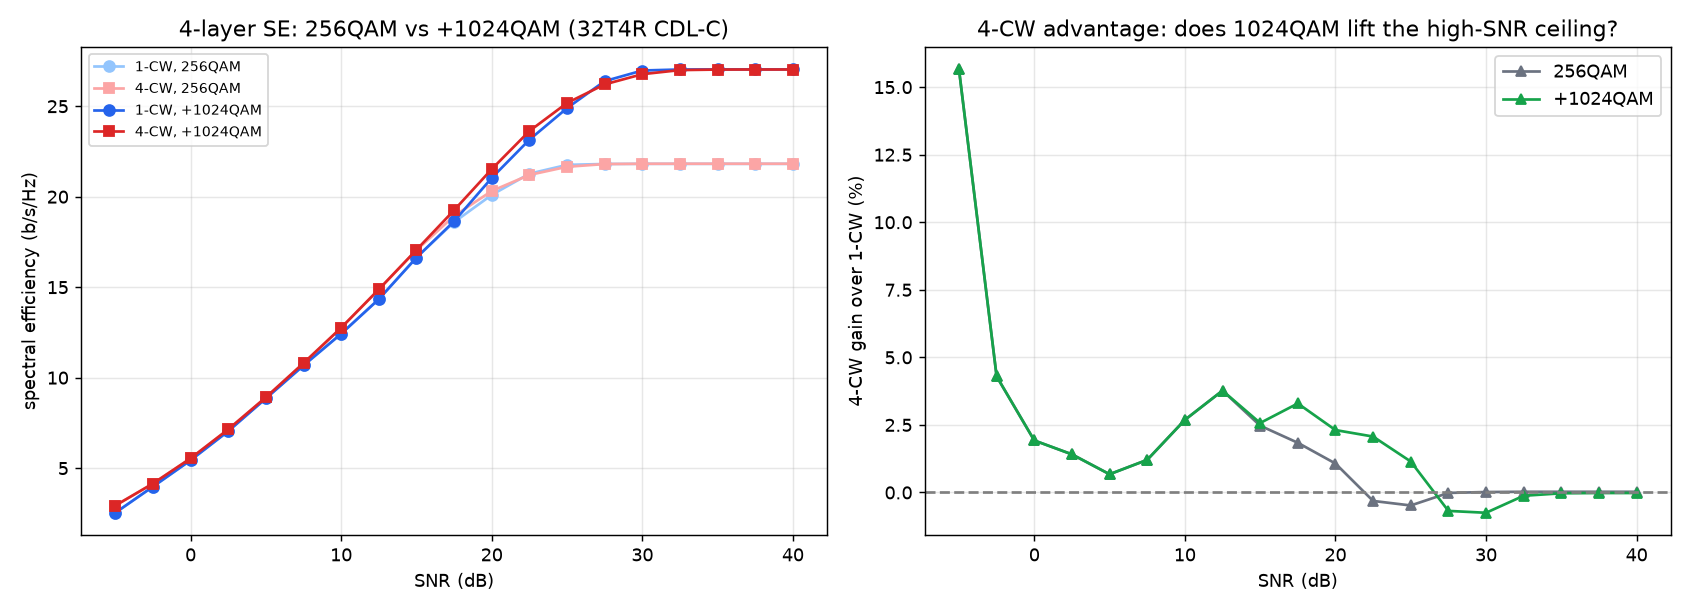
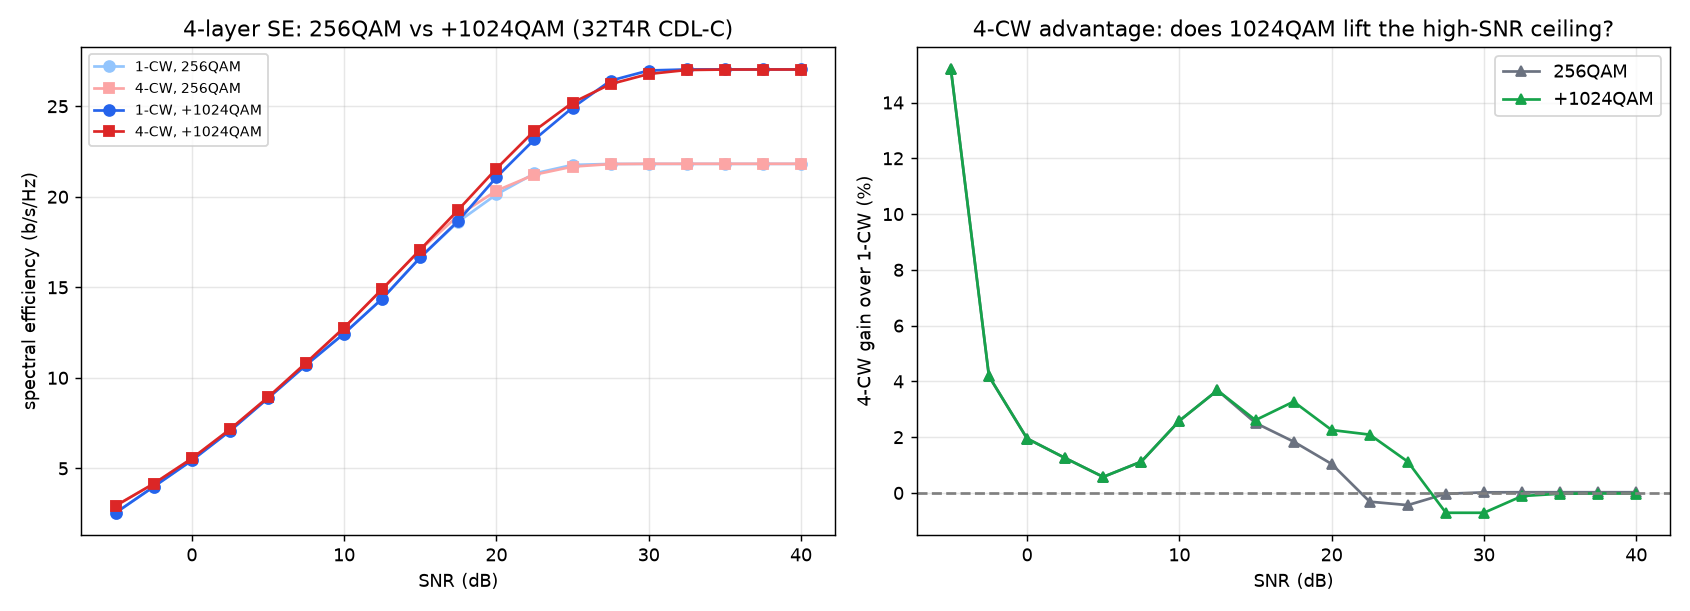
Correct CDL-B/C/D/E angle tables to TR 38.901
23 cluster rows had wrong AOD/AOA/ZOD/ZOA values (CDL-B 12, CDL-C 6,
CDL-D 1, CDL-E 4); delays, powers, spreads, XPR and LOS were already
correct. Values now match the TR 38.901 tables shipped with Sionna
(identical in its Rel-16.1 and Rel-19.2 copies).

- tests/test_cdl_pdp.py: the reference check now covers every table
  column (angles, per-cluster spreads, XPR, LOS angles), not just the
  PDP; it fails on the old tables.
- Regenerate results/codeword_mapping_study.png and
  results/codeword_mapping_ut.png; the remaining CDL-dependent figures
  follow in the next commit.

Claude-Session: https://claude.ai/code/session_01QWMA1G15JsNym7MEDMSeZY

diff --git a/nrdlsim/channel_models.py b/nrdlsim/channel_models.py
@@ -227,10 +227,10 @@ _CDL = {
             [0.1072,  -2.2,   9.3, -173.3, 105.8,  78.9],
             [0.2155,  -4.0,   9.3, -173.3, 105.8,  78.9],
             [0.2095,  -3.2, -34.1,  125.5, 115.3,  63.3],
-            [0.2870,  -9.8, -65.4,  -88.0, 119.0,  59.9],
-            [0.2986,  -1.2, -11.4,  155.1, 103.7,  67.5],
-            [0.3752,  -3.4, -11.4,  155.1, 103.7,  67.5],
-            [0.5055,  -5.2, -11.4,  155.1, 103.7,  67.5],
+            [0.2870,   -9.8,   -65.4,   -88.0,   119.3,    59.9],
+            [0.2986,   -1.2,   -11.4,   155.1,   103.2,    67.5],
+            [0.3752,   -3.4,   -11.4,   155.1,   103.2,    67.5],
+            [0.5055,   -5.2,   -11.4,   155.1,   103.2,    67.5],
             [0.3681,  -7.6, -67.2,  -89.8, 118.2,  82.6],
             [0.3697,  -3.0,  52.5,  132.1, 102.0,  66.3],
             [0.5700,  -8.9, -72.0,  -83.6, 100.4,  61.6],
@@ -238,14 +238,14 @@ _CDL = {
             [1.1021,  -4.8, -52.2,  103.7, 103.4,  78.2],
             [1.2756,  -5.7, -50.5,  -87.8, 102.5,  82.0],
             [1.5474,  -7.5,  61.4,  -92.5, 101.4,  62.4],
-            [1.7842,  -1.9,  30.6, -139.1, 103.0,  62.5],
-            [2.0169,  -7.6, -72.5,  -90.6, 100.0,  71.6],
-            [2.8294, -12.2, -90.6,   58.6, 115.2,  55.8],
-            [3.0219,  -9.8, -77.6,  -79.0, 100.5,  60.1],
-            [3.6187, -11.4, -82.6,   65.8, 119.6,  60.6],
-            [4.1067, -14.9, -103.6,  52.7, 118.5,  60.0],
-            [4.2790,  -9.2,  75.6,   88.7, 102.5,  61.3],
-            [4.7834, -11.3, -77.6,  -60.4, 101.8,  70.5],
+            [1.7842,   -1.9,    30.6,  -139.1,   103.0,    78.0],
+            [2.0169,   -7.6,   -72.5,   -90.6,   100.0,    60.9],
+            [2.8294,  -12.2,   -90.6,    58.6,   115.2,    82.9],
+            [3.0219,   -9.8,   -77.6,   -79.0,   100.5,    60.8],
+            [3.6187,  -11.4,   -82.6,    65.8,   119.6,    57.3],
+            [4.1067,  -14.9,  -103.6,    52.7,   118.7,    59.9],
+            [4.2790,   -9.2,    75.6,    88.7,   117.8,    60.1],
+            [4.7834,  -11.3,   -77.6,   -60.4,   115.7,    62.3],
         ],
     },
     "CDL-C": {
@@ -269,12 +269,12 @@ _CDL = {
             [2.7105, -13.2,  102.7,   30.7, 104.2, 100.7],
             [4.2589, -13.9,   99.2,  -16.4,  94.9,  62.3],
             [4.6003, -13.9,   88.8,    3.8,  93.1,  66.7],
-            [5.4902, -15.8,   -1.9,  -13.7, 106.0,  52.9],
-            [5.6077, -17.1,  -45.6,    9.7,  93.8,  61.8],
-            [6.3065, -16.0,  -89.8,    5.6, 108.8,  51.9],
-            [6.6374, -15.7,   85.6,  -33.4,  95.6,  61.7],
-            [7.0427, -21.6,   86.4,  -47.9,  95.9,  57.8],
-            [8.6523, -22.8, -104.7, -132.6, 108.4,  57.3],
+            [5.4902,  -15.8,  -101.9,   -13.7,    92.2,    52.9],
+            [5.6077,  -17.1,    92.2,     9.7,   106.7,    61.8],
+            [6.3065,  -16.0,    93.3,     5.6,    93.0,    51.9],
+            [6.6374,  -15.7,   106.6,     0.7,    92.9,    61.7],
+            [7.0427,  -21.6,   119.5,   -21.9,   105.2,    58.0],
+            [8.6523,  -22.8,  -123.8,    33.6,   107.8,    57.0],
         ],
     },
     "CDL-D": {
@@ -293,7 +293,7 @@ _CDL = {
             [7.9370, -23.6,  -32.9,  127.7,  91.3,  78.3],
             [9.4240, -24.8,   52.6, -119.6, 103.8,  87.0],
             [9.7080, -30.0, -132.1,   -9.1,  80.3,  70.6],
-            [12.525, -27.7,   77.2,  -83.8, 107.8,  73.1],
+            [12.525,  -27.7,    77.2,   -83.8,    86.5,    72.9],
         ],
     },
     "CDL-E": {
@@ -310,10 +310,10 @@ _CDL = {
             [1.9293, -20.8,    9.3, -155.5,  98.8,  82.7],
             [1.9589, -22.6,    9.3, -155.5,  98.8,  82.7],
             [2.6426, -22.3,   19.0, -143.3, 100.8,  82.9],
-            [3.7136, -25.6,   32.9,  -94.7,  96.4,  88.0],
-            [5.4524, -20.2,   12.7,  147.0,  98.5,  79.6],
-            [12.0034, -29.8,  -1.0, -132.4,  99.7,  80.0],
-            [20.6419, -29.2, -25.3,  147.2, 101.6,  76.6],
+            [3.7136,  -25.6,    32.7,   -94.7,    96.4,    88.0],
+            [5.4524,  -20.2,     0.5,   147.0,    98.9,    81.0],
+            [12.0034,  -29.8,    55.9,   -36.2,    95.6,    88.6],
+            [20.6419,  -29.2,    57.6,   -26.0,   104.6,    78.3],
         ],
     },
 }

diff --git a/tests/test_cdl_pdp.py b/tests/test_cdl_pdp.py
@@ -50,11 +50,19 @@ def test_pdp_tables_match_reference():
         assert len(ref["delays"]) - off == len(cl), m
         np.testing.assert_allclose(cl[:, 0], ref["delays"][off:], atol=1e-9, err_msg=m)
         np.testing.assert_allclose(cl[:, 1], ref["powers"][off:], atol=1e-9, err_msg=m)
+        for col, key in ((2, "aod"), (3, "aoa"), (4, "zod"), (5, "zoa")):
+            np.testing.assert_allclose(cl[:, col], ref[key][off:], atol=1e-9,
+                                       err_msg=f"{m} {key}")
+        assert np.allclose(_CDL[m]["spread"],
+                           (ref["cASD"], ref["cASA"], ref["cZSD"], ref["cZSA"])), m
+        assert abs(_CDL[m]["xpr_db"] - ref["xpr"]) < 1e-9, m
         if off:
             assert ref["delays"][0] == 0 and abs(ref["powers"][0]
                                                  - _CDL[m]["los_power_db"]) < 1e-9, m
-    print(f"PDP tables (delays, powers, LOS) == TR 38.901 reference "
-          f"({os.path.basename(ref_dir)}): OK")
+            assert np.allclose(_CDL[m]["los_angles"],
+                               [ref[k][0] for k in ("aod", "aoa", "zod", "zoa")]), m
+    print(f"CDL tables (delays, powers, angles, spreads, XPR, LOS) == TR 38.901 "
+          f"reference ({os.path.basename(ref_dir)}): OK")
 
 
 def test_table_normalisation():
